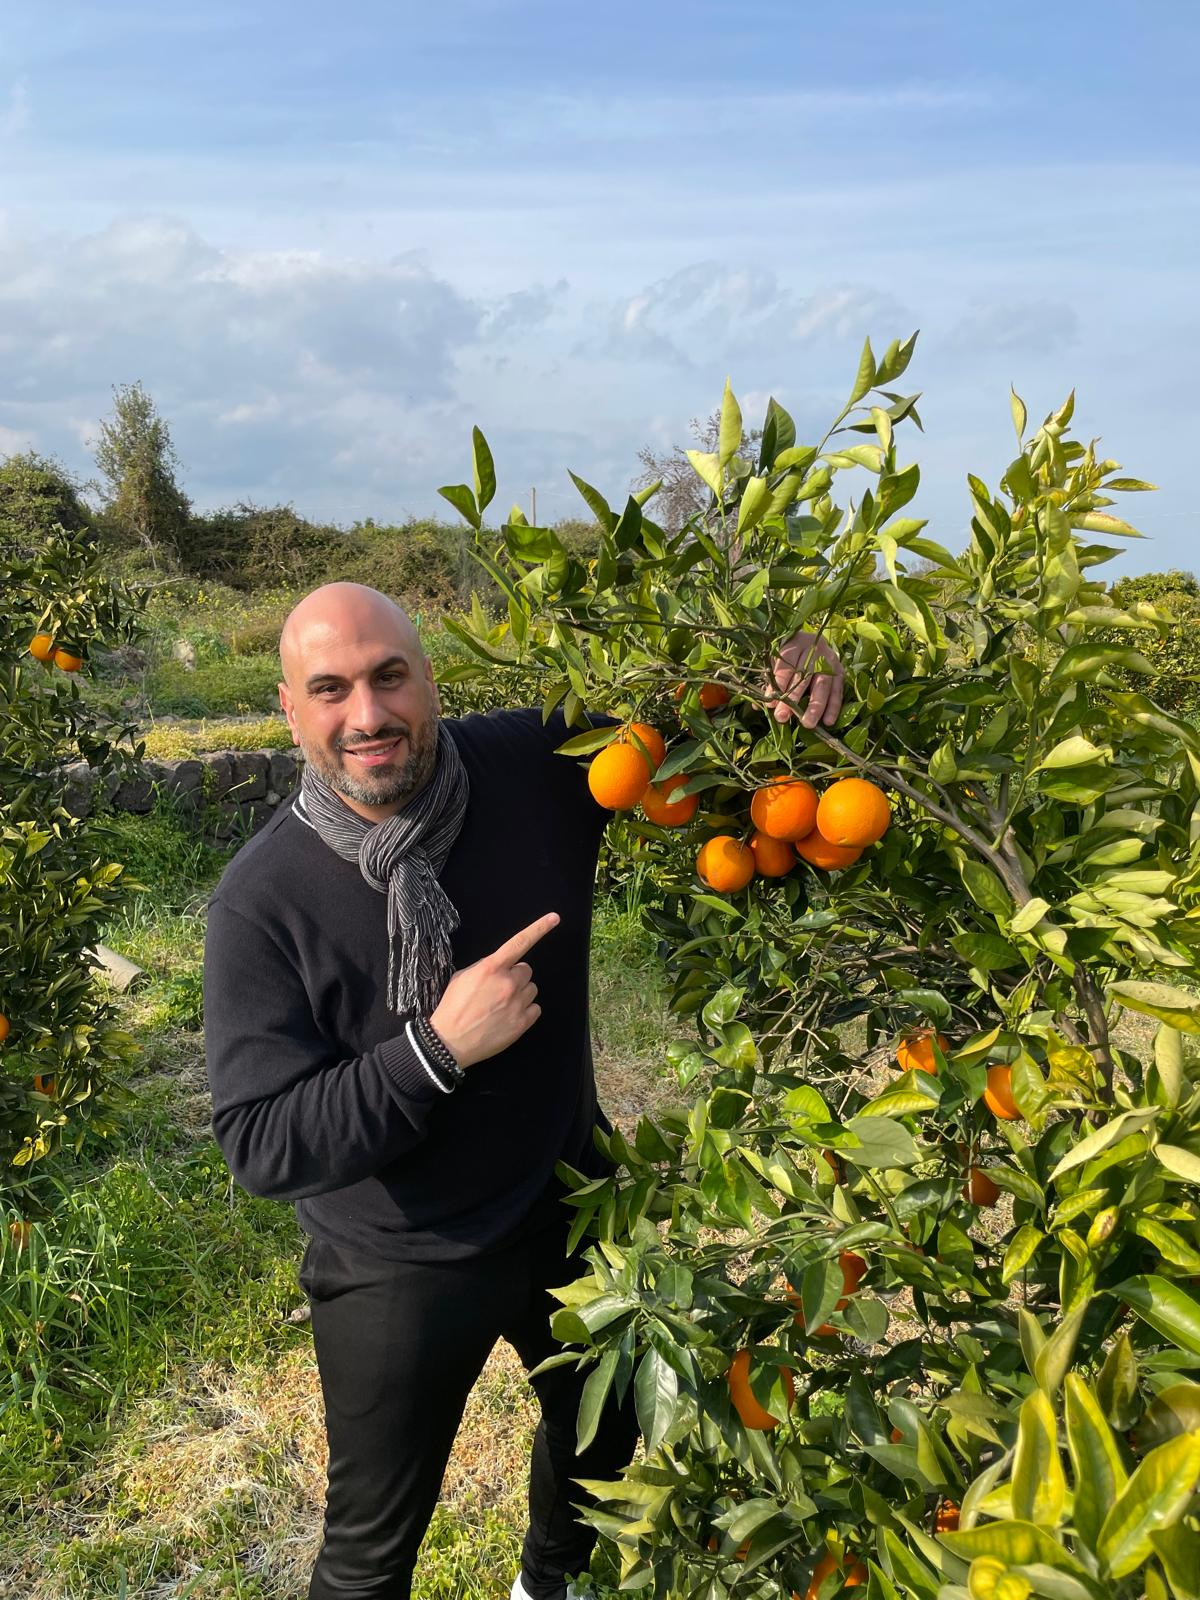
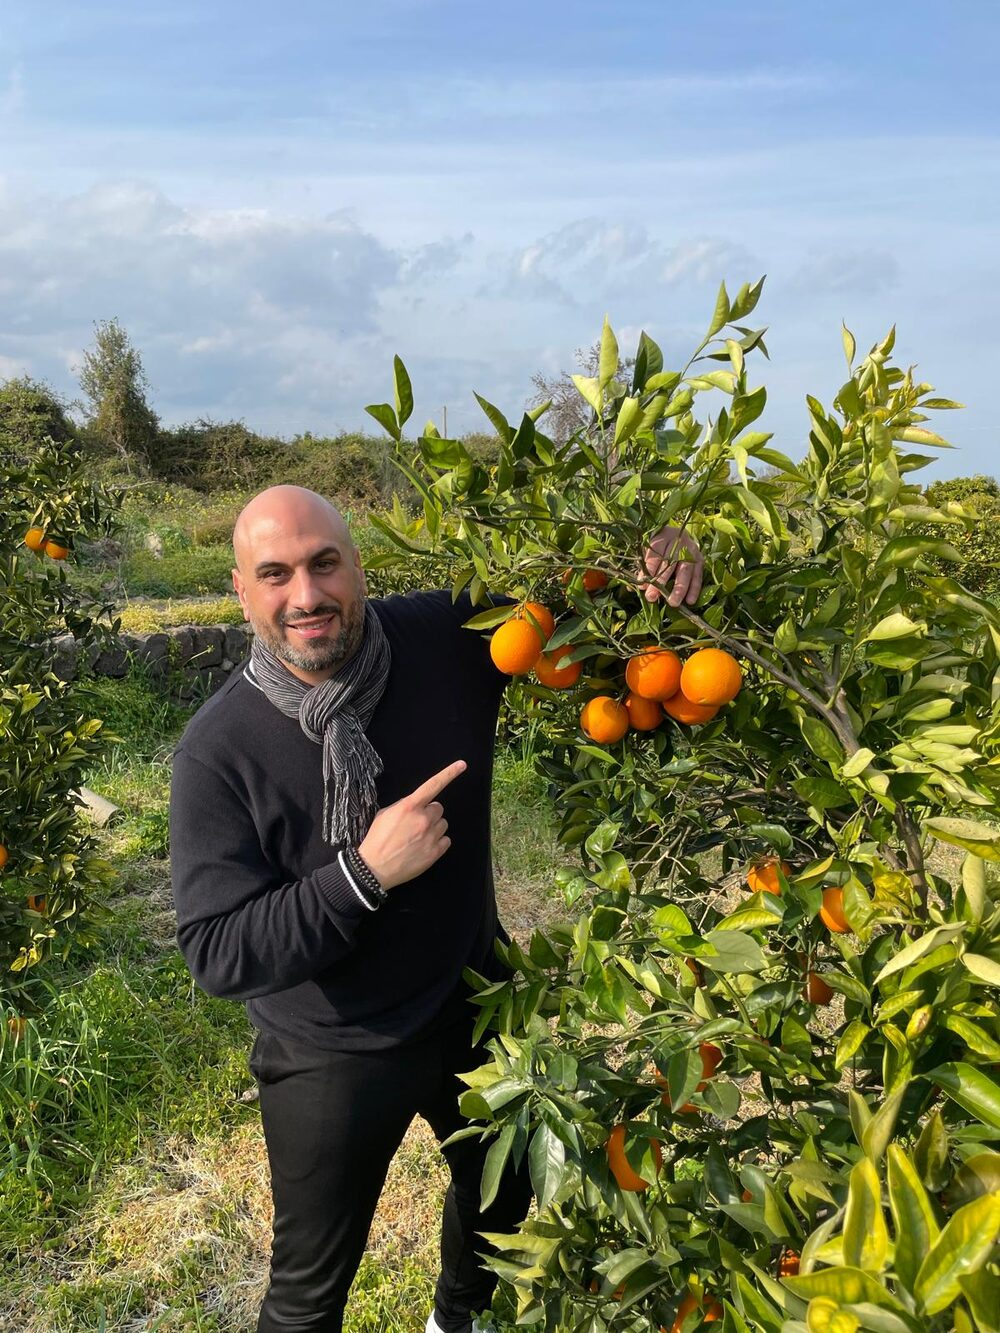
Wer wir sind: Rahmen auf Hochformat, Diashow laedt erst bei Bedarf
Die vier hochgeladenen Fotos sind hochkant (1200x1600). Der Rahmen stand auf
3:2 quer, dadurch wurden oben und unten je 25 Prozent abgeschnitten – bei zwei
Fotos waeren die Koepfe weg gewesen. Rahmen jetzt 3:4, es wird nichts mehr
beschnitten.

- Fotos auf 1000x1333 verkleinert und neu komprimiert
- Die Diashow laedt die Bilder erst, wenn der Abschnitt in Sichtweite kommt.
  Zusammen gut ein Megabyte – wer nur bestellen will, sollte das nicht
  herunterladen muessen.

Geprueft: beim Seitenaufruf wird kein Foto geholt, nach dem Hinscrollen alle
vier, Rahmen und Foto haben beide das Verhaeltnis 0.75, keine JS-Fehler,
auf dem Handy kein Querlauf.

Claude-Session: https://claude.ai/code/session_01TK8T9epqKzC6YpLZ5vLeai

diff --git a/index.html b/index.html
@@ -538,7 +538,9 @@ h2 {
   border-radius: 16px;
   overflow: hidden;
   border: 2px solid var(--rahmen);
-  aspect-ratio: 3 / 2;
+  /* Hochformat, weil die Fotos hochkant sind. Bei 3/2 quer wuerde oben und
+     unten je ein Viertel abgeschnitten – da waeren Koepfe weg. */
+  aspect-ratio: 3 / 4;
 }
 .geschichte-bild img { width: 100%; height: 100%; object-fit: cover; display: block; }
 
@@ -1136,8 +1138,8 @@ footer a:hover { color: var(--akzent); }
            zu ändern. Gutes Format: 3:2 liegend, etwa 1500 x 1000 Pixel. -->
       <div class="geschichte-bilder">
         <div class="geschichte-bild" id="wer-schau">
-          <img src="bilder/wer-wir-sind-1.jpg" width="1200" height="800"
-               alt="Familie La Rocca">
+          <img src="bilder/wer-wir-sind-1.jpg" width="1000" height="1333"
+               alt="Familie La Rocca in Sizilien" loading="lazy">
         </div>
         <div class="wer-punkte" id="wer-punkte" hidden></div>
       </div>
@@ -1379,7 +1381,16 @@ footer a:hover { color: var(--akzent); }
     if (document.hidden) clearInterval(uhr); else if (bilder.length > 1) starten();
   });
 
-  suchen(1);
+  /* Erst laden, wenn der Abschnitt in Sichtweite kommt. Die Fotos sind gut
+     ein Megabyte zusammen – wer nur bestellen will, soll das nicht herunterladen. */
+  if ('IntersectionObserver' in window) {
+    var beobachter = new IntersectionObserver(function (eintraege) {
+      if (eintraege[0].isIntersecting) { beobachter.disconnect(); suchen(1); }
+    }, { rootMargin: '300px' });
+    beobachter.observe(kasten);
+  } else {
+    suchen(1);
+  }
 })();
 </script>
 </body>
